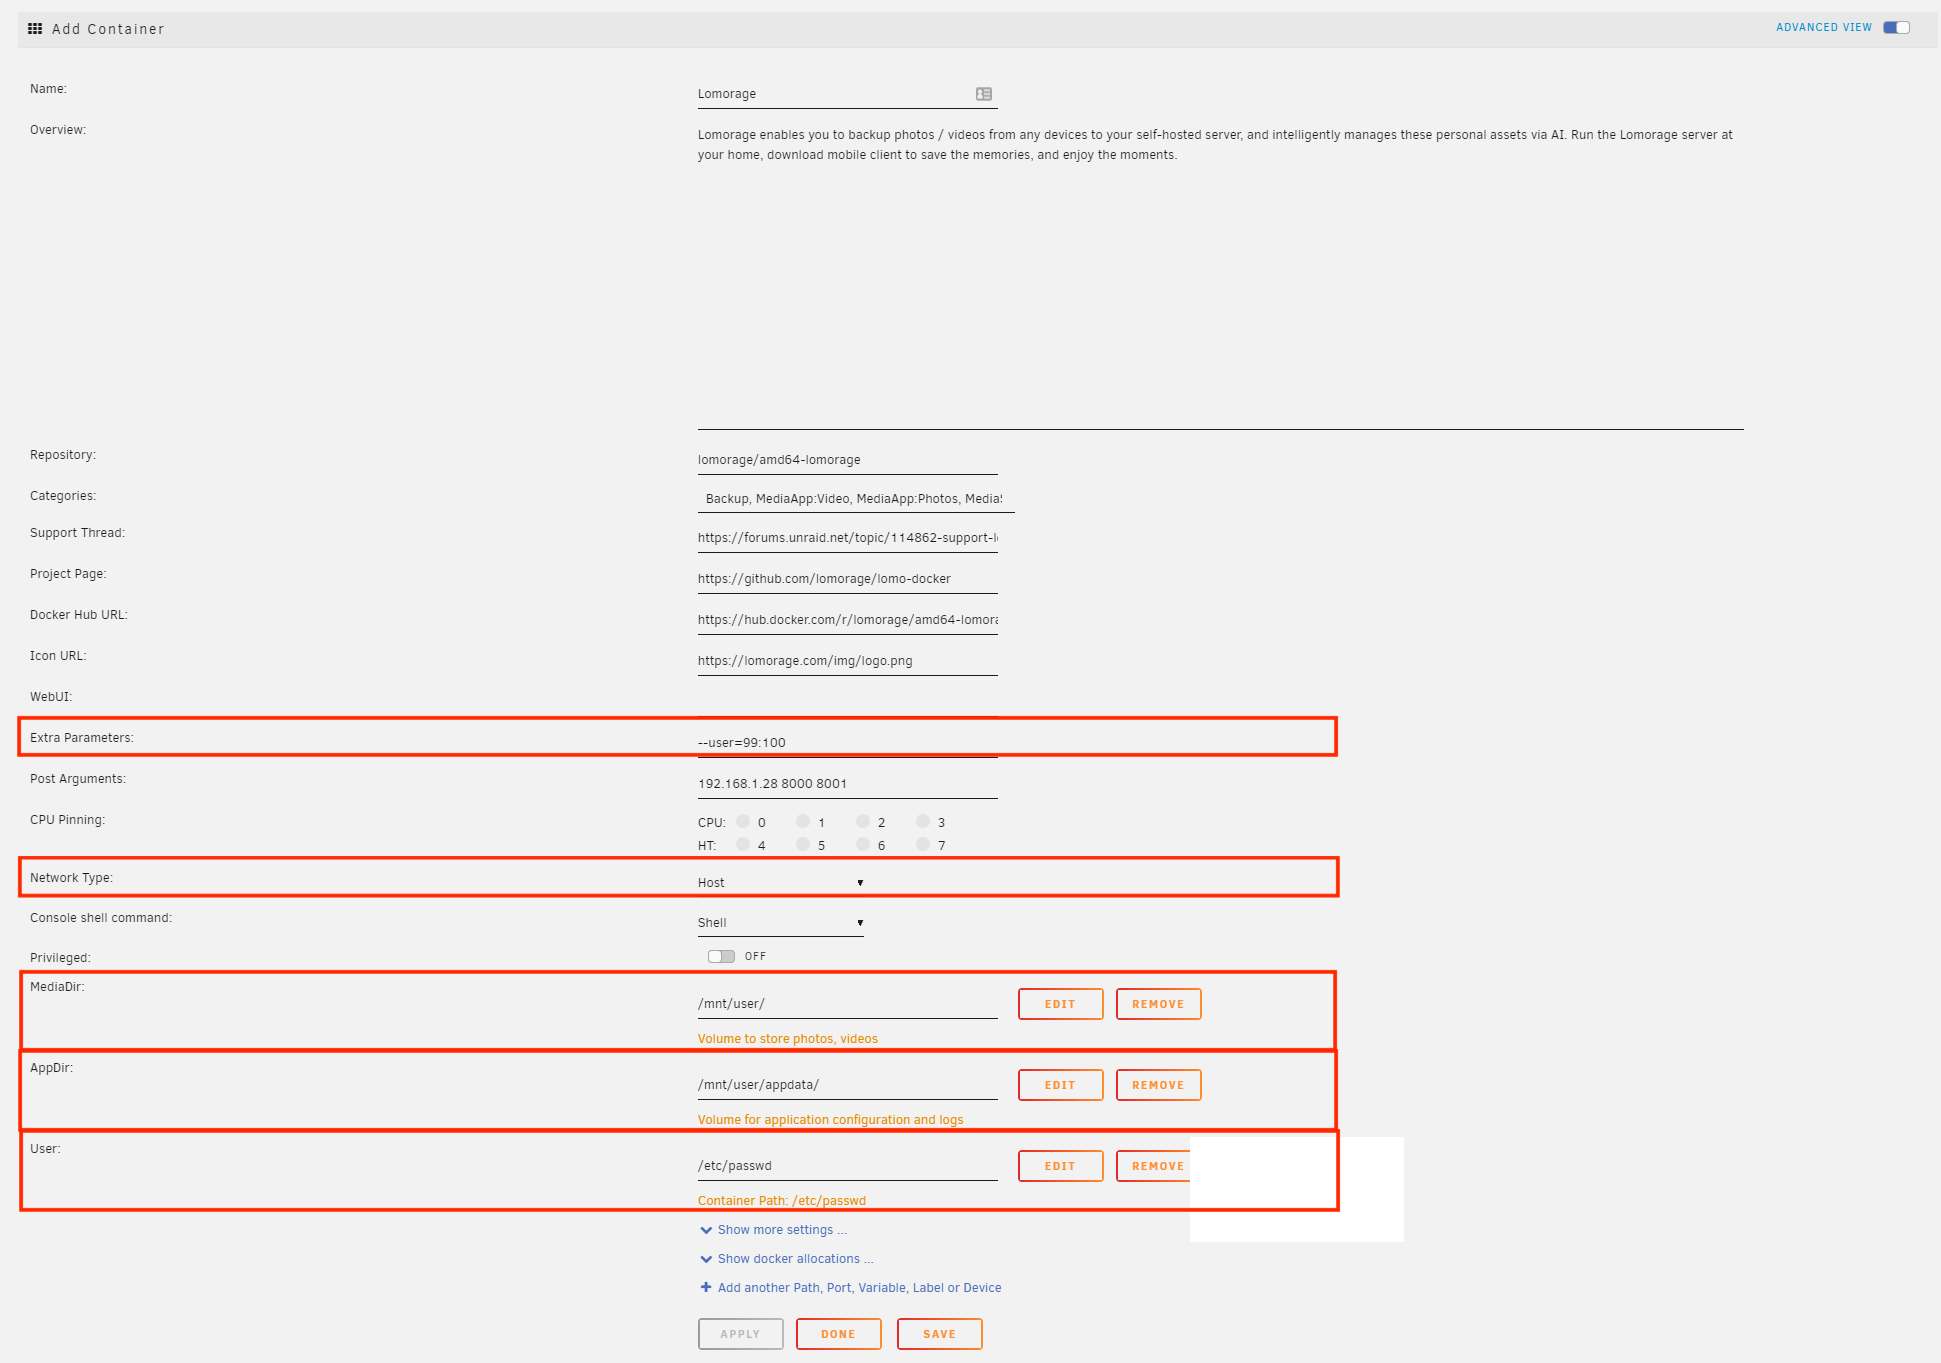
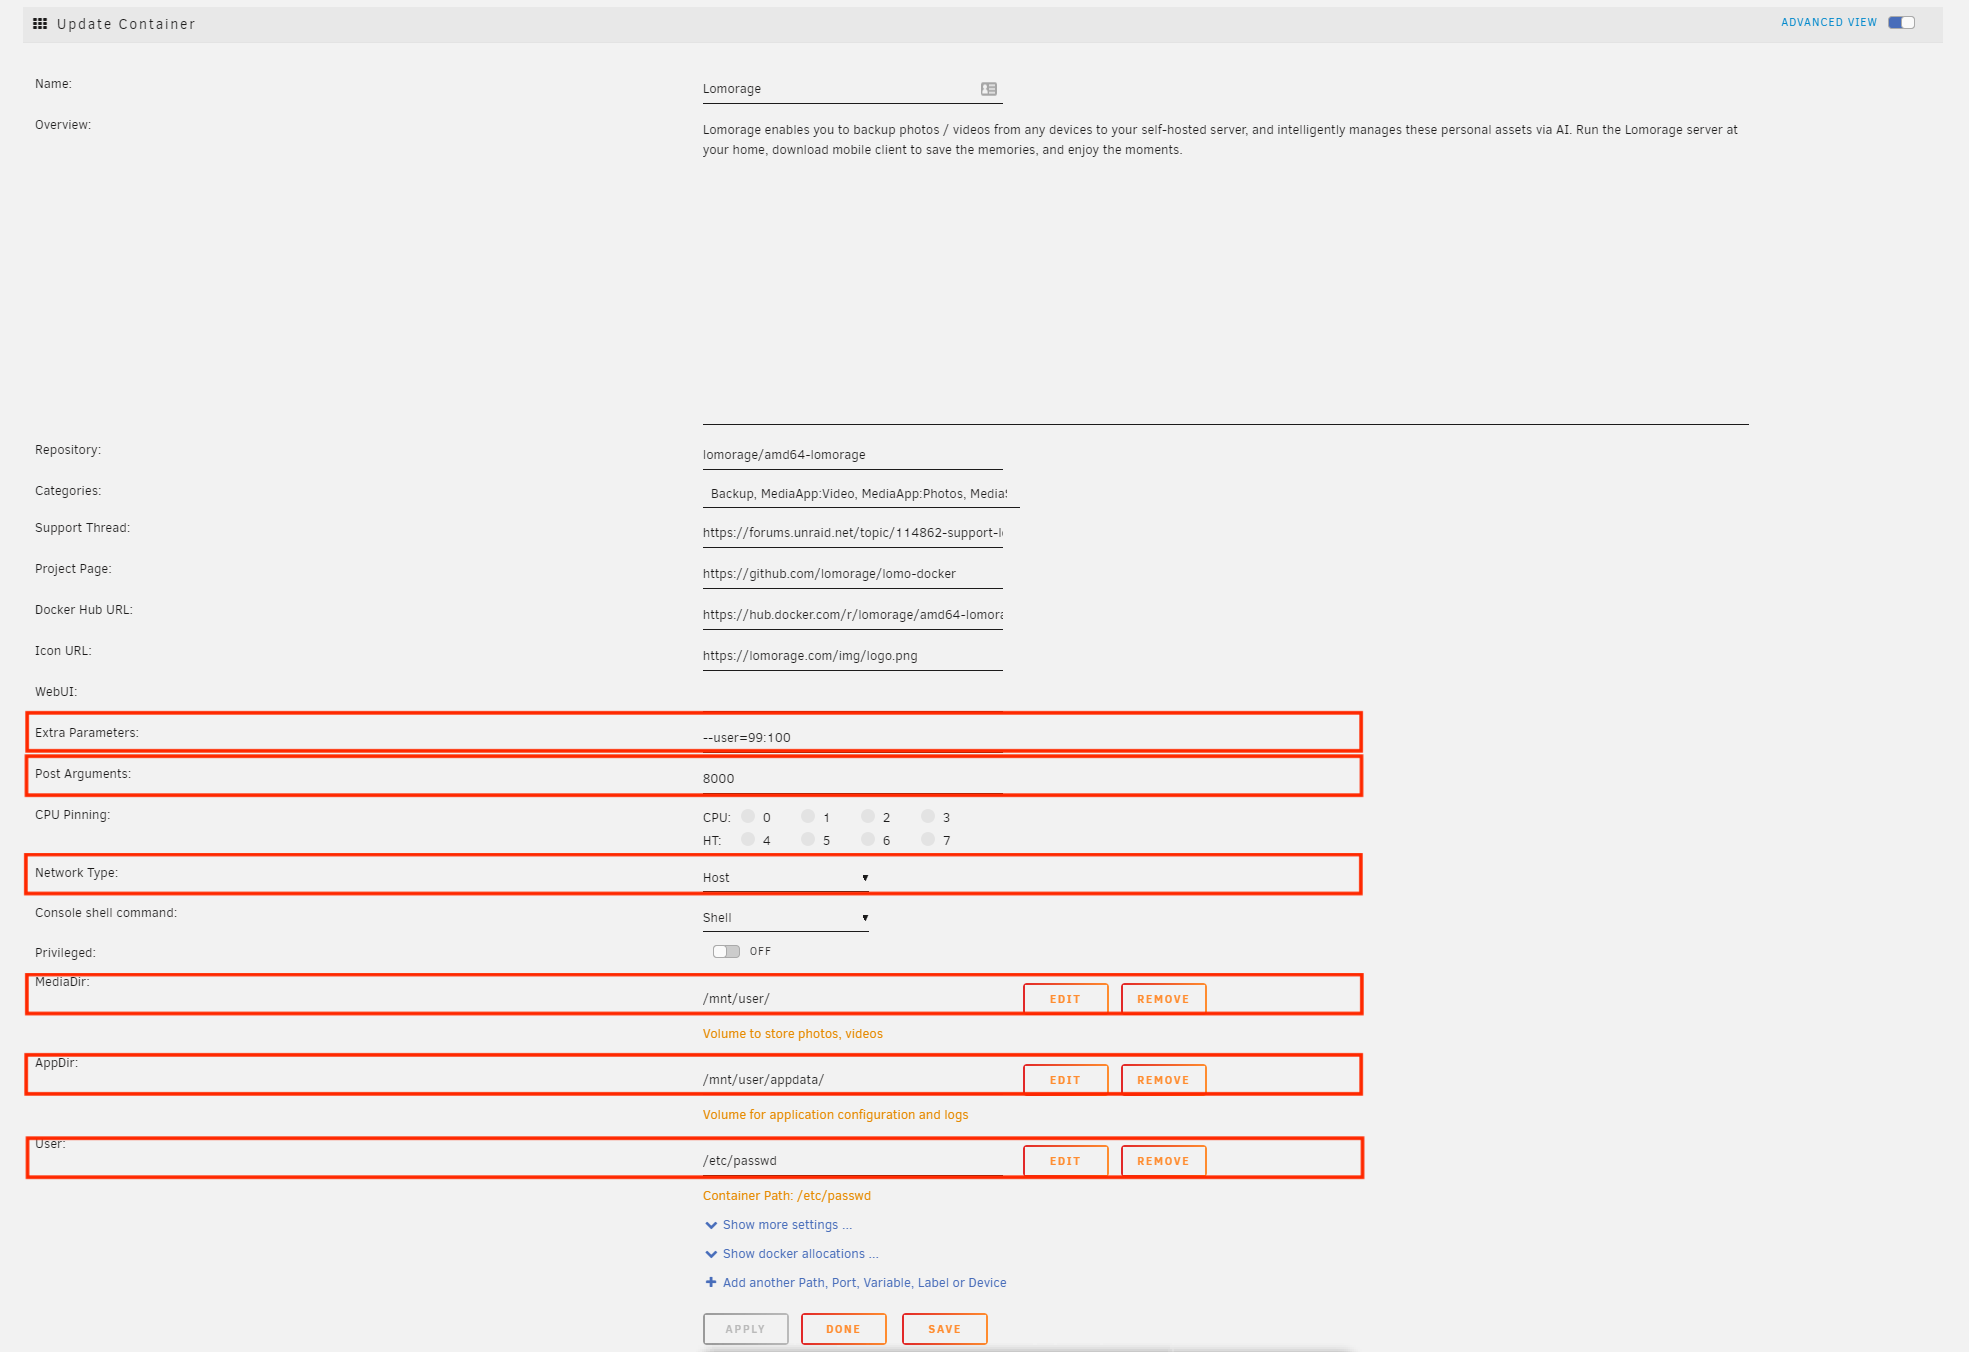
add nginx proxy manager integration section

diff --git a/content/docs/Installation/lomorage-service/installation-unraid.md b/content/docs/Installation/lomorage-service/installation-unraid.md
@@ -32,8 +32,30 @@ Below is the explanation on template configuration.
 
 - Network: Default value is `host` mode because mobile client uses MDNS to auto-discover server listen address and port. It can be changed to `bridge` mode if user wants to configure these information from mobile client by yourselves.
 - ExtraParams: Default value is `99:100`. This parameter need combined together with `User` mount configuration. It is to make sure uploaded photos/videos have right user/group permission, and can be browsed via unraid share feature. 99 is user ID of `nobody`, and 100 is group ID of `nobody`. User can customize it based on his own user configuration.
-- PostArgs: Default value is `192.168.1.28 8000 8000`. `192.168.1.28` is unraid IP, `8000` is lomorage API backend listening port, and `8000` it's also lomorage web portal listening port.
+- PostArgs: Default value is `8000` which is lomorage API backend listening port
 - Config
   * MediaDir: This is uploaded media storage directory. Default value is `/mnt/user/`
   * AppDir: This directory stores configuration file, database file, log files, etc, used by lomorage api server. Default value is `/mnt/user/appdata`
   * User: This mount file is to ensure lomo backend API server uses the same user ID and group ID as host unraid OS. Lomorage will never read the confidential data inside the file
+
+## Nginx Proxy Manager integration
+Nginx Proxy Manager is a populer self-host tool to easily forward your websites running at home to the public internet. It has one official app on Unraid community, and user can install by their own.
+
+1. Click `Add Proxy Host`, then set your own domain name and forward ip as below screen. Schema is `http`, and forward port is the listen port configured for lomorage container, 8000 is default listen port.
+
+<p align="center">
+  <img width="50%" src="/img/installation/npm1.png">
+</p>
+
+2. Enable `SSL` configuration and set certificate domain name as your own domain name
+
+<p align="center">
+  <img width="50%" src="/img/installation/npm2.png">
+</p>
+
+3. Click `Save`, and below host should be added into the host list
+
+<p align="center">
+  <img width="50%" src="/img/installation/npm3.png">
+</p>
+

diff --git a/content.zh/docs/Installation/lomorage-service/installation-unraid.md b/content.zh/docs/Installation/lomorage-service/installation-unraid.md
@@ -32,8 +32,29 @@ weight: 6
 
 - Network: 缺省值是`host`模式，这主要是因为手机客户端需要试用MDNS来自动发现后端服务，如果您愿意手动配置手机客户端，可以将此处设置为bridge模式
 - ExtraParams: 缺省值是`99:100`. 这个参数需要和下面的`User` 配置一起使用。这个值主要是为了保证上传的图片和视频可以有正确的Linux用户名和组名，这样的话用户就可以利用unraid的共享服务，从电脑端远程访问图片和视频.其中，99 是`nobody`用户在linux下面的ID, 100 是`nobody`组在linux下面的ID. 用户可以根据自己需要定制这些值.
-- PostArgs: 缺省值是`192.168.1.28 8000 8000`. `192.168.1.28`是unraid的IP地址，`8000`是 lomorage 后端的监听端口，也是lomorage 网页端的服务端口.
+- PostArgs: 缺省值是`8000`, 是 lomorage 后端的监听端口.
 - Config
   * MediaDir: 这个目录是上传的媒体存储目录，缺省值是`/mnt/user/`
   * AppDir: 这个目录是lomorage后端配置文件，数据库文件和日志文件的存储目录，缺省值是`/mnt/user/appdata`
   * User: 这个文件是将实际的用户id信息传入到后端，从而保证后台可以生成正确的用户名.
+
+## Nginx Proxy Manager 集成
+Nginx Proxy Manager 是一个流行的免费反向代理服务器，可以用来把内网的服务映射到公网internet上面。unraid社区已经有了官方支持的app，用户可以自行安装.
+
+1. 登陆之后，点击 `Add Proxy Host`, 然后设置自己的域名和转发ip，转发端口是上面设置的监听端口
+
+<p align="center">
+  <img width="50%" src="/img/installation/npm1.png">
+</p>
+
+2. 点击 `SSL`，配置证书域名
+
+<p align="center">
+  <img width="50%" src="/img/installation/npm2.png">
+</p>
+
+3. 点击`Save`, 新添加的proxy host会显示在列表中
+
+<p align="center">
+  <img width="50%" src="/img/installation/npm3.png">
+</p>
